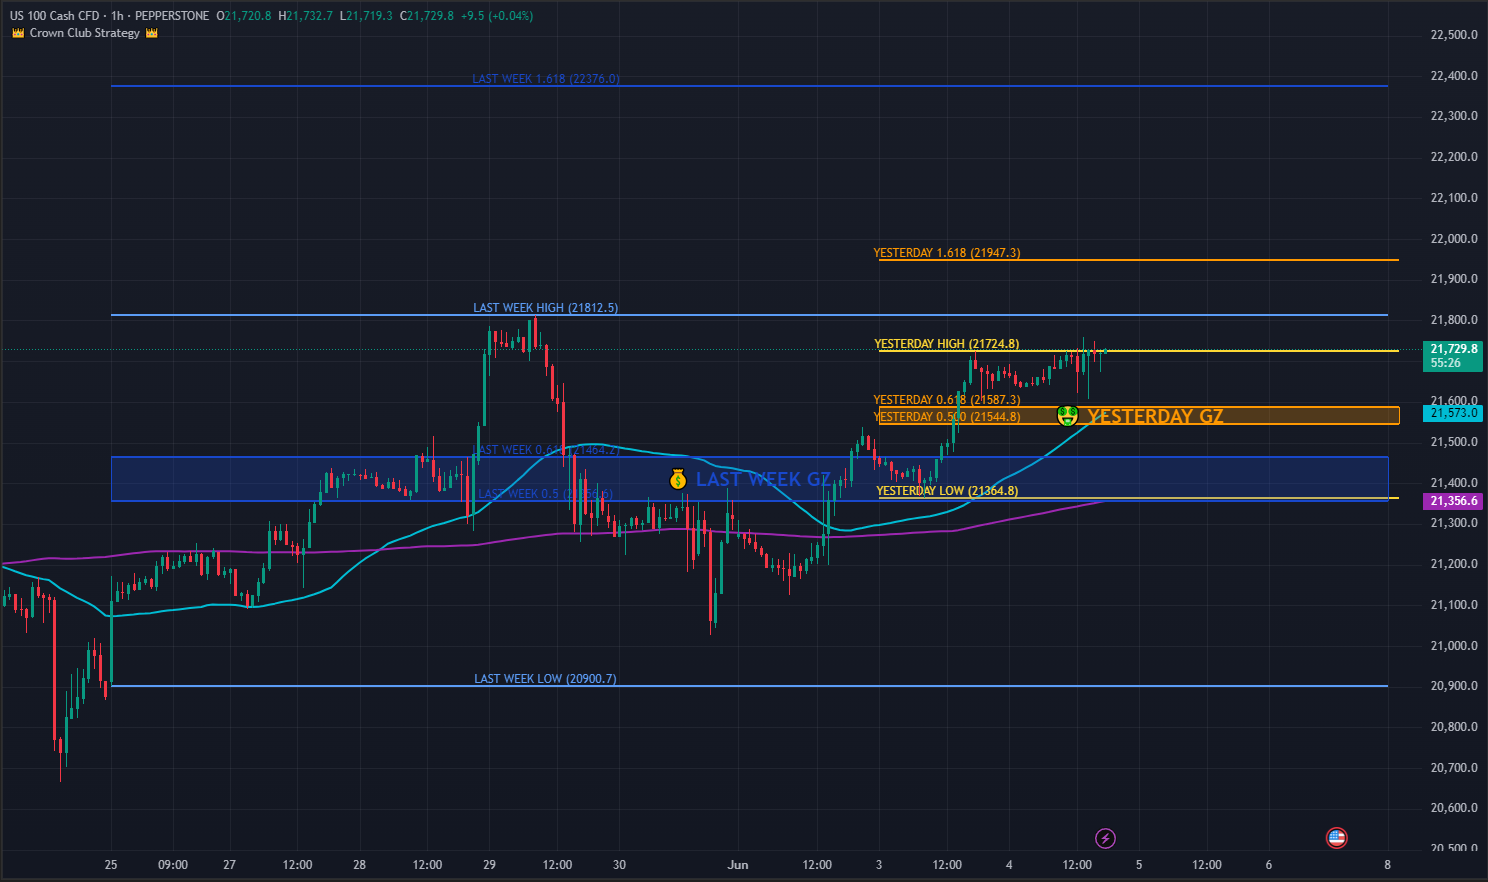
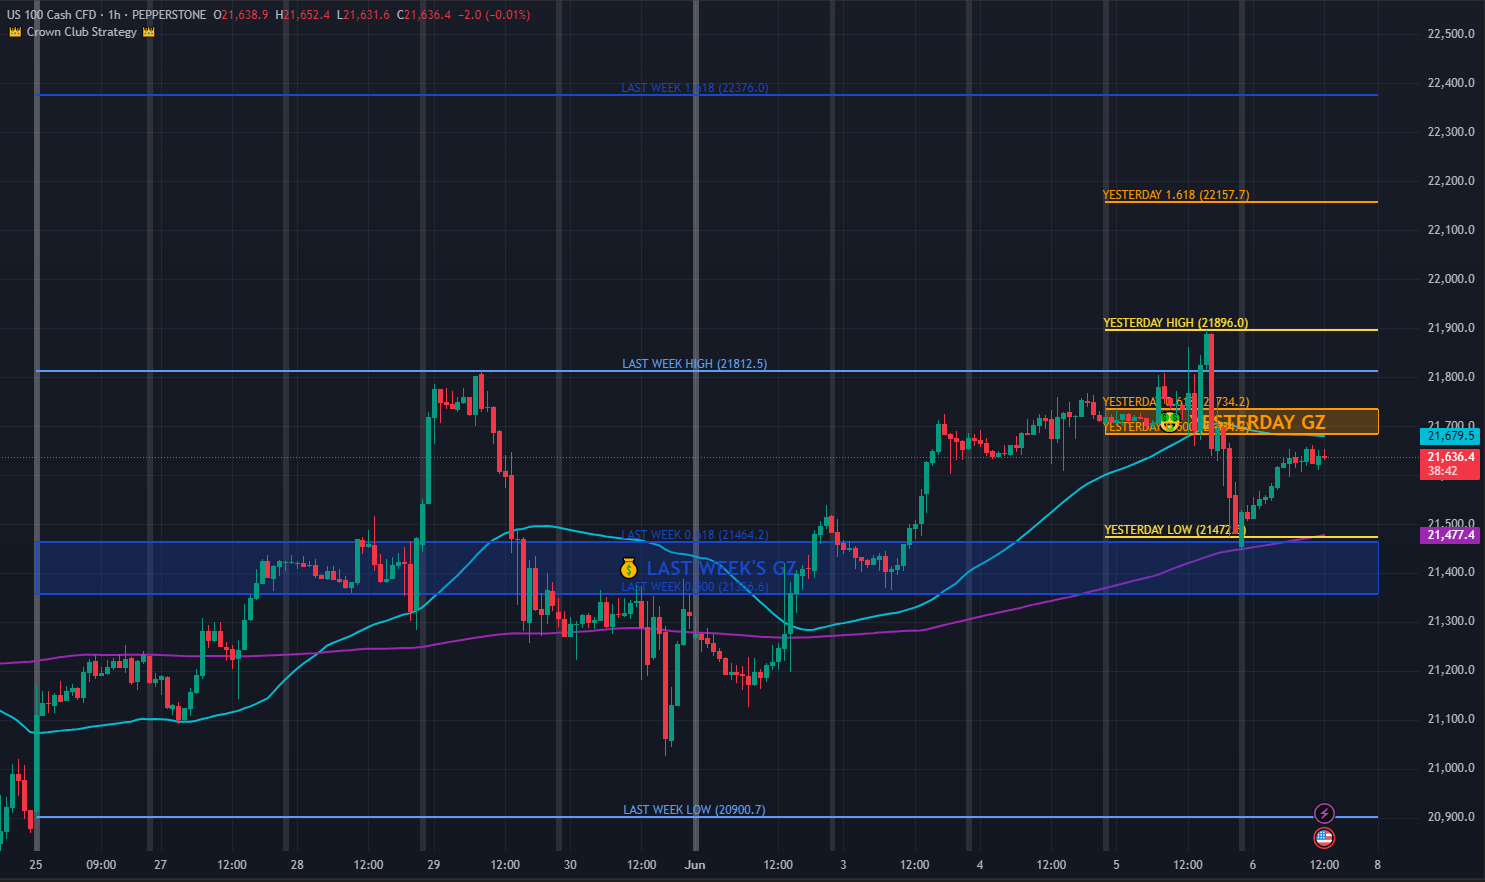
Added day/week separator, changed the plotting of yesterday values and changed the settings panel

diff --git a/README.md b/README.md
@@ -15,6 +15,7 @@ It automatically draws:
 - Last Week's Fibonacci Levels (0.500, 0.618 and 1.618) and the Golden Zone, based on the bias you set in the settings (Long or Short)
 - Yesterday's High and Low
 - Yesterday's Fibonacci Levels (0.500, 0.618 and 1.618) and the Golden Zone, based on the bias you set in the settings (Long or Short)
+- Day and Week separator (only for timeframes lower than "Daily")
 
 (On Mondays it does not draw Yesterday's High and Low and Fibonacci Levels)
 
